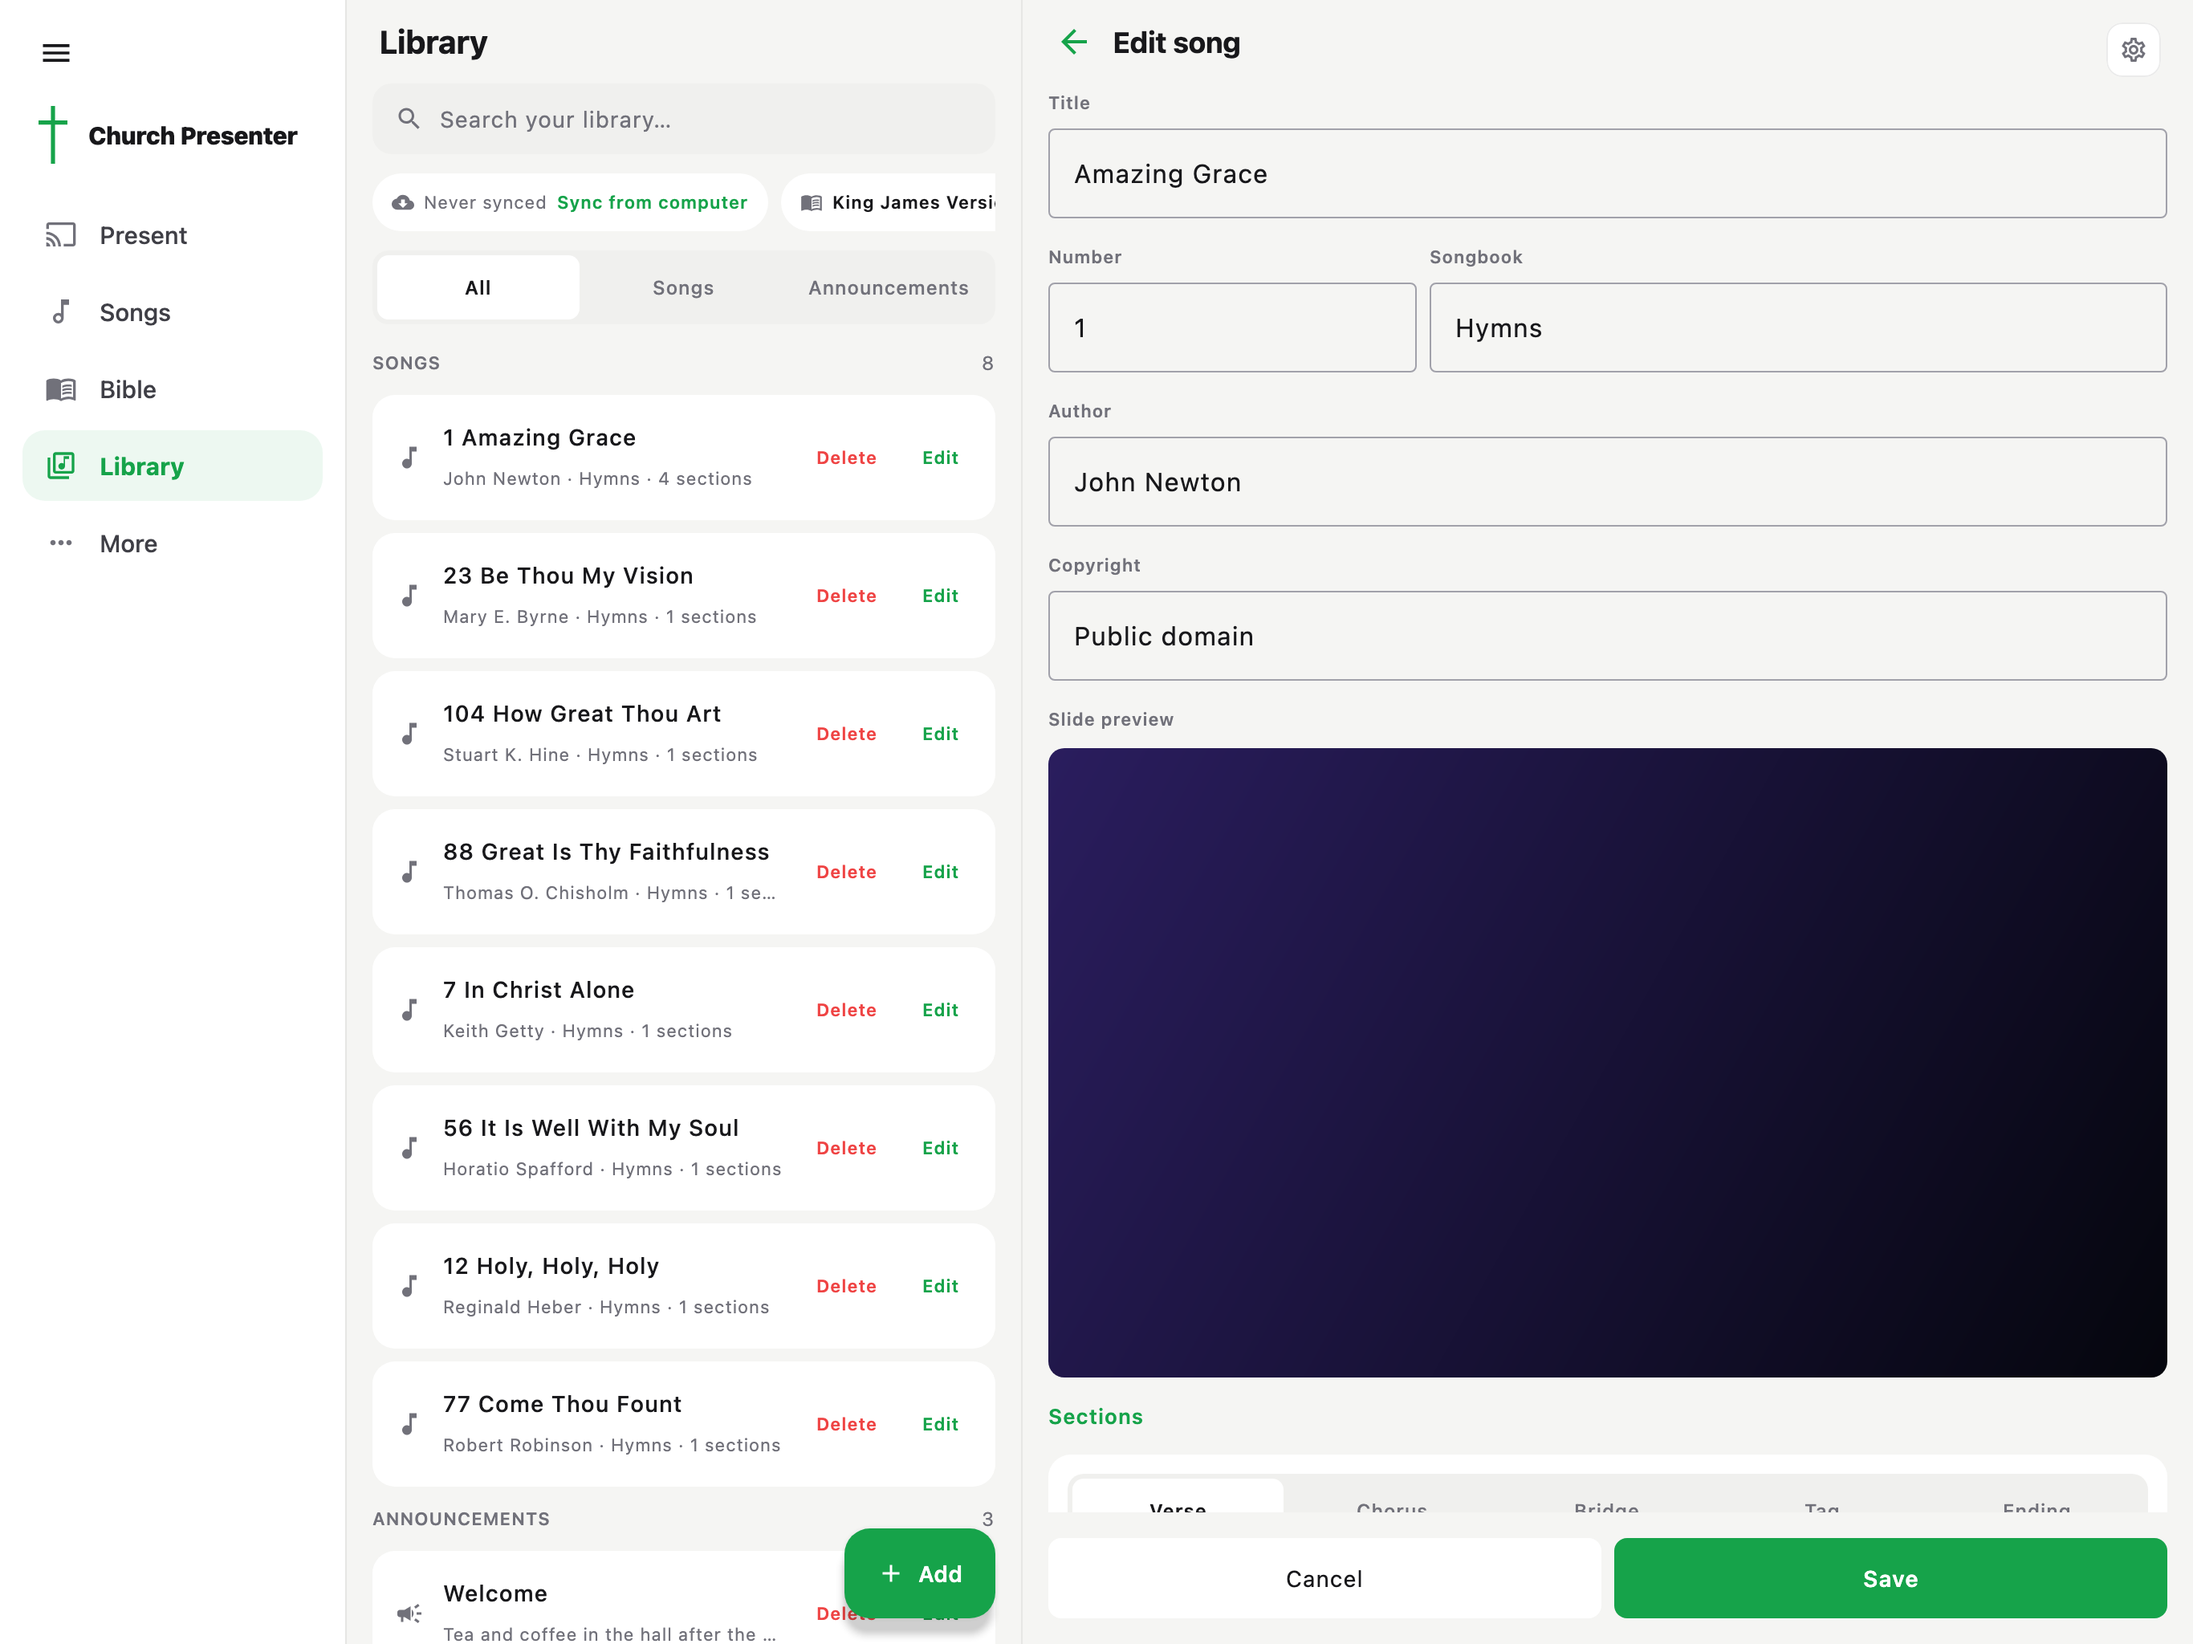
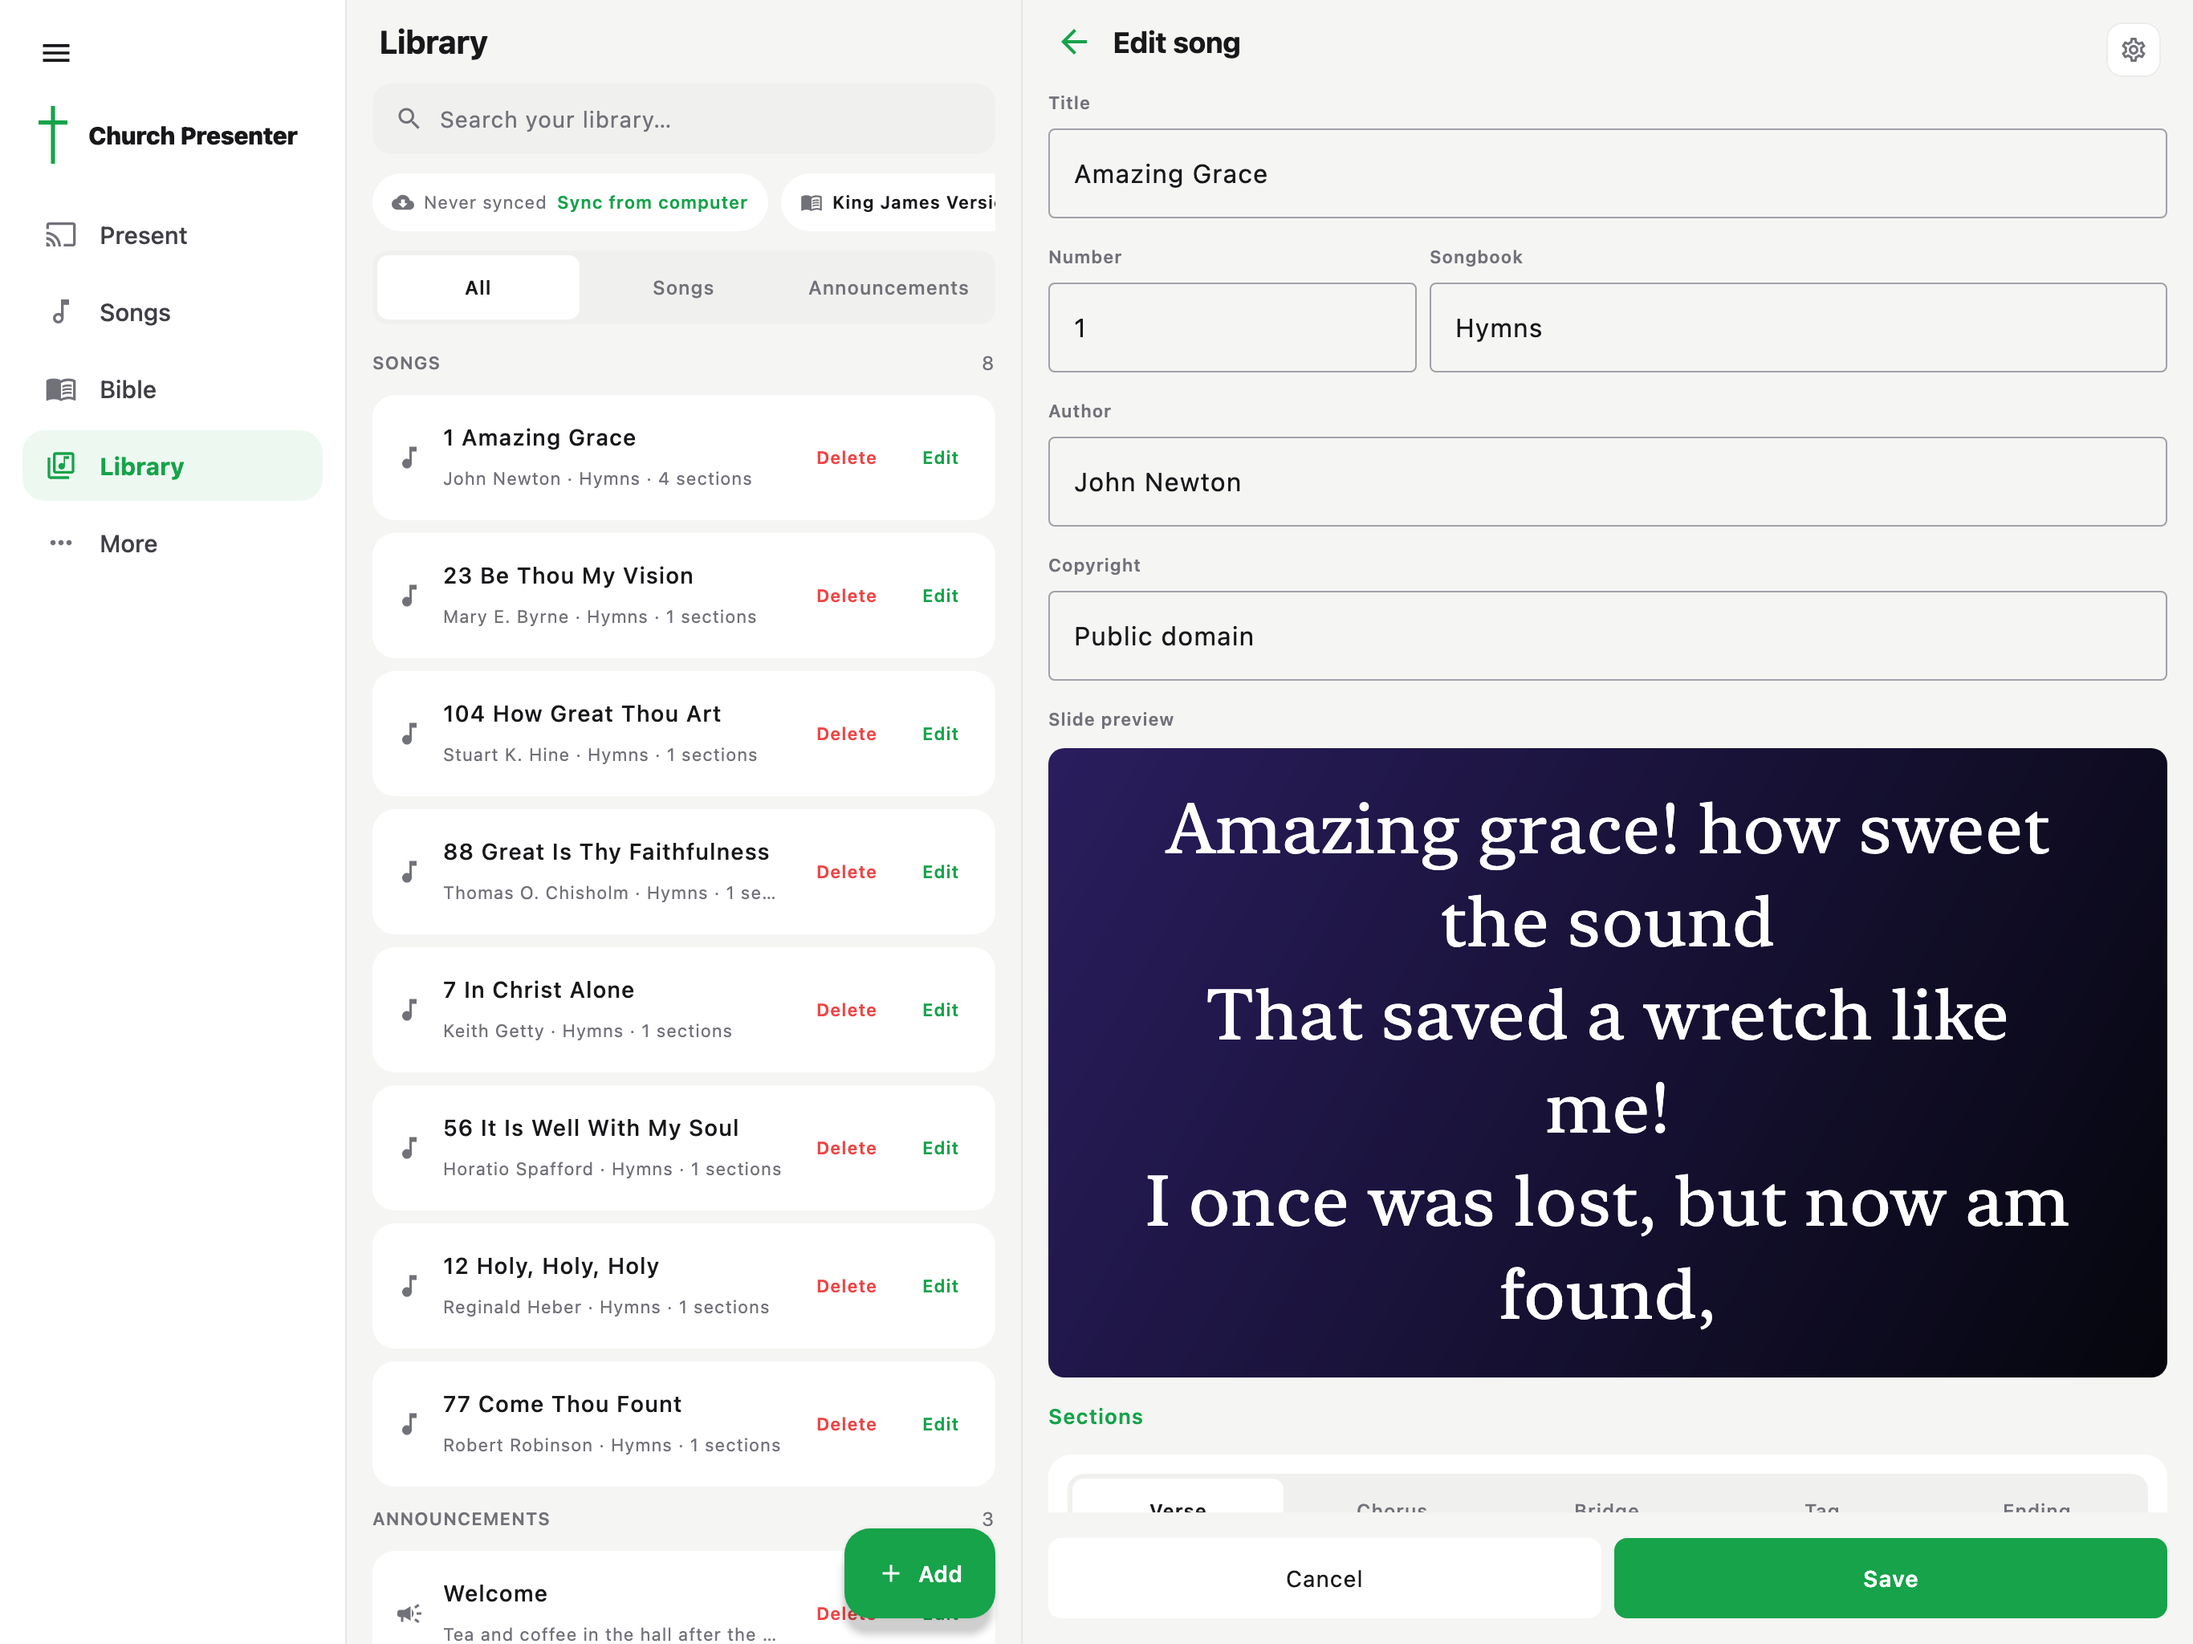
Fix release versioning and marketing shots
Stop the Android Play Store and iOS TestFlight workflows from committing version bumps back to the repo. Both now derive release/build numbers from the GitHub run number, fail early if that would not advance the uploaded version, and document the new release flow in PLAY_STORE.md.

Refresh the tablet and iPad marketing screenshots, with small screenshot-fixture updates to reuse song construction and force the library preview to render before capture.

diff --git a/composeApp/src/jvmTest/kotlin/com/church/presenter/churchpresentermobile/screenshot/MarketingContent.kt b/composeApp/src/jvmTest/kotlin/com/church/presenter/churchpresentermobile/screenshot/MarketingContent.kt
@@ -122,18 +122,18 @@ internal object MarketingContent {
 
     /** The desktop's catalogue, as the tablet's Songs list pane shows it: the same hymns as [librarySongs]. */
     val songs: List<Song> = listOf(
-        Song(id = 1, number = "1", title = "Amazing Grace", author = "John Newton", bookName = "Hymns"),
-        Song(id = 2, number = "23", title = "Be Thou My Vision", author = "Mary E. Byrne", bookName = "Hymns"),
-        Song(id = 3, number = "104", title = "How Great Thou Art", author = "Stuart K. Hine", bookName = "Hymns"),
-        Song(id = 4, number = "88", title = "Great Is Thy Faithfulness", author = "Thomas O. Chisholm", bookName = "Hymns"),
-        Song(id = 5, number = "7", title = "In Christ Alone", author = "Keith Getty", bookName = "Modern"),
-        Song(id = 6, number = "56", title = "It Is Well With My Soul", author = "Horatio Spafford", bookName = "Hymns"),
-        Song(id = 7, number = "12", title = "Holy, Holy, Holy", author = "Reginald Heber", bookName = "Hymns"),
-        Song(id = 8, number = "77", title = "Come Thou Fount", author = "Robert Robinson", bookName = "Hymns"),
-        Song(id = 9, number = "31", title = "Be Still, My Soul", author = "Katharina von Schlegel", bookName = "Hymns"),
-        Song(id = 10, number = "45", title = "Rock of Ages", author = "Augustus Toplady", bookName = "Hymns"),
-        Song(id = 11, number = "19", title = "10,000 Reasons", author = "Matt Redman", bookName = "Modern"),
-        Song(id = 12, number = "63", title = "Crown Him with Many Crowns", author = "Matthew Bridges", bookName = "Hymns"),
+        song(1, "1", "Amazing Grace", "John Newton", "Hymns"),
+        song(2, "23", "Be Thou My Vision", "Mary E. Byrne", "Hymns"),
+        song(3, "104", "How Great Thou Art", "Stuart K. Hine", "Hymns"),
+        song(4, "88", "Great Is Thy Faithfulness", "Thomas O. Chisholm", "Hymns"),
+        song(5, "7", "In Christ Alone", "Keith Getty", "Modern"),
+        song(6, "56", "It Is Well With My Soul", "Horatio Spafford", "Hymns"),
+        song(7, "12", "Holy, Holy, Holy", "Reginald Heber", "Hymns"),
+        song(8, "77", "Come Thou Fount", "Robert Robinson", "Hymns"),
+        song(9, "31", "Be Still, My Soul", "Katharina von Schlegel", "Hymns"),
+        song(10, "45", "Rock of Ages", "Augustus Toplady", "Hymns"),
+        song(11, "19", "10,000 Reasons", "Matt Redman", "Modern"),
+        song(12, "63", "Crown Him with Many Crowns", "Matthew Bridges", "Hymns"),
     )
 
     /**
@@ -158,9 +158,13 @@ internal object MarketingContent {
         ),
         localSong("s2", "23", "Be Thou My Vision", "Mary E. Byrne", "Be thou my vision, O Lord of my heart"),
         localSong("s3", "104", "How Great Thou Art", "Stuart K. Hine", "O Lord my God, when I in awesome wonder"),
-        localSong("s4", "88", "Great Is Thy Faithfulness", "Thomas O. Chisholm", "Great is thy faithfulness, O God my Father"),
+        localSong(
+            "s4", "88", "Great Is Thy Faithfulness", "Thomas O. Chisholm", "Great is thy faithfulness, O God my Father",
+        ),
         localSong("s5", "7", "In Christ Alone", "Keith Getty", "In Christ alone my hope is found"),
-        localSong("s6", "56", "It Is Well With My Soul", "Horatio Spafford", "When peace like a river attendeth my way"),
+        localSong(
+            "s6", "56", "It Is Well With My Soul", "Horatio Spafford", "When peace like a river attendeth my way",
+        ),
         localSong("s7", "12", "Holy, Holy, Holy", "Reginald Heber", "Holy, holy, holy! Lord God Almighty!"),
         localSong("s8", "77", "Come Thou Fount", "Robert Robinson", "Come thou fount of every blessing"),
     )
@@ -175,7 +179,7 @@ internal object MarketingContent {
         strongs("H430", "elohim", "el-o-heem", "gods in the ordinary sense; God, the supreme God", 2606),
         strongs("H7965", "shalom", "shaw-lome", "safe; well, happy, friendly; welfare, health, prosperity, peace", 237),
         strongs("H2617", "chesed", "kheh-sed", "kindness; by implication piety, favour, mercy, loving-kindness", 248),
-        strongs("H8085", "shama", "shaw-mah", "to hear intelligently; often with implication of attention, obedience", 1159),
+        strongs("H8085", "shama", "shaw-mah", "to hear intelligently; often with implication of attention", 1159),
         strongs("G26", "agape", "ag-ah-pay", "love, affection, benevolence", 116),
         strongs("G3056", "logos", "log-os", "something said; a word, a topic, reasoning, the Divine Expression", 330),
         strongs("G5485", "charis", "khar-ece", "graciousness; the divine influence upon the heart; gratitude", 156),
@@ -217,6 +221,9 @@ internal object MarketingContent {
 
     private fun verse(label: String, vararg lines: String) =
         SongVerse(label = label, lines = lines.toList())
+
+    private fun song(id: Int, number: String, title: String, author: String, book: String) =
+        Song(id = id, number = number, title = title, author = author, bookName = book)
 
     private fun localSong(id: String, number: String, title: String, author: String, firstLine: String) =
         LocalSong(

diff --git a/composeApp/src/jvmTest/kotlin/com/church/presenter/churchpresentermobile/screenshot/TabletMarketingScreenshotTest.kt b/composeApp/src/jvmTest/kotlin/com/church/presenter/churchpresentermobile/screenshot/TabletMarketingScreenshotTest.kt
@@ -243,16 +243,18 @@ class TabletMarketingScreenshotTest {
         tab = AppTab.LIBRARY,
         tabs = AppTab.forMode(AppMode.STANDALONE),
         // The editor's slide preview is blank until a section is edited, and a
-        // blank black panel is most of the pane. "Retype" the first verse as it
-        // already is — the words do not change, the preview fills in — then
-        // put the form back at the top for the picture.
+        // blank black panel is most of the pane. So edit the first verse and
+        // edit it straight back: a text field only reports a change when the
+        // words differ, so retyping them as they are would report nothing. The
+        // words end up as they were and the preview shows them. Then put the
+        // form back at the top for the picture.
         prepare = {
             val firstVerse = MarketingContent.librarySongs.first().sections.first().text
             editorForm().performScrollToNode(hasTestTag(LibraryTags.verse(0)))
+            onNode(hasTestTag(LibraryTags.verse(0))).performTextReplacement("$firstVerse ")
             onNode(hasTestTag(LibraryTags.verse(0))).performTextReplacement(firstVerse)
             editorForm().performScrollToNode(hasTestTag(LibraryTags.FIELD_TITLE))
         },
-        until = { onAllNodes(hasText("Amazing Grace · Verse 1")).fetchSemanticsNodes().isNotEmpty() },
     ) {
         val repository = libraryOf(
             songs = MarketingContent.librarySongs,

diff --git a/PLAY_STORE.md b/PLAY_STORE.md
@@ -273,19 +273,29 @@ Before submitting to production, verify everything in Play Console is complete:
 
 ## Versioning
 
-Every new release **must** increment `versionCode`. `versionName` is the
-human-readable version shown to users.
+Every new release **must** carry a `versionCode` higher than the previous
+upload. `versionName` is the human-readable version shown to users.
 
-Edit in `composeApp/build.gradle.kts`:
+The **Android Play Store Upload** workflow sets both itself, from its own
+run number: `versionCode = <run number>` and `versionName = <major>.<minor>.<run number>`,
+with major and minor read from `composeApp/build.gradle.kts`. Nothing is
+committed — `main` only accepts pull requests, and Play only needs the number
+to go up, which the run number does on its own. So there is no bump to make
+before a release; the numbers checked in are what a local build gets.
+
+To move to a new major or minor version, change `versionName` in
+`composeApp/build.gradle.kts` through a pull request:
 
 ```kotlin
 defaultConfig {
-    versionCode = 2        // ← must be higher than the previous upload
-    versionName = "1.1"    // ← shown on the Play Store
+    versionCode = 21         // local builds only; releases use the run number
+    versionName = "1.1.0"    // releases keep the 1.1 and replace the patch
 }
 ```
 
-Commit the version bump before triggering the release build.
+The workflow refuses to run if its run number is not above the checked-in
+`versionCode`, so that value can be raised past the run counter to reserve
+a range, but never above it.
 
 ---
 
@@ -294,7 +304,7 @@ Commit the version bump before triggering the release build.
 | Problem | Solution |
 |---------|----------|
 | "You need to publish to at least one testing track" | Complete all store listing required fields first, then upload to internal testing |
-| "Version code already used" | Increment `versionCode` in `build.gradle.kts` and rebuild |
+| "Version code already used" | A re-run reuses its run number; trigger a fresh run instead of re-running the failed one |
 | "APK/AAB not signed correctly" | Re-run `push_github_secrets.sh` to refresh the Android keystore secret |
 | "Target API level too low" | Ensure `targetSdk` in `libs.versions.toml` meets the current year's Play Store requirement |
 | Service account gets 403 | Make sure the service account was granted **Release to testing tracks** permission in Play Console (not just Google Cloud IAM) |
